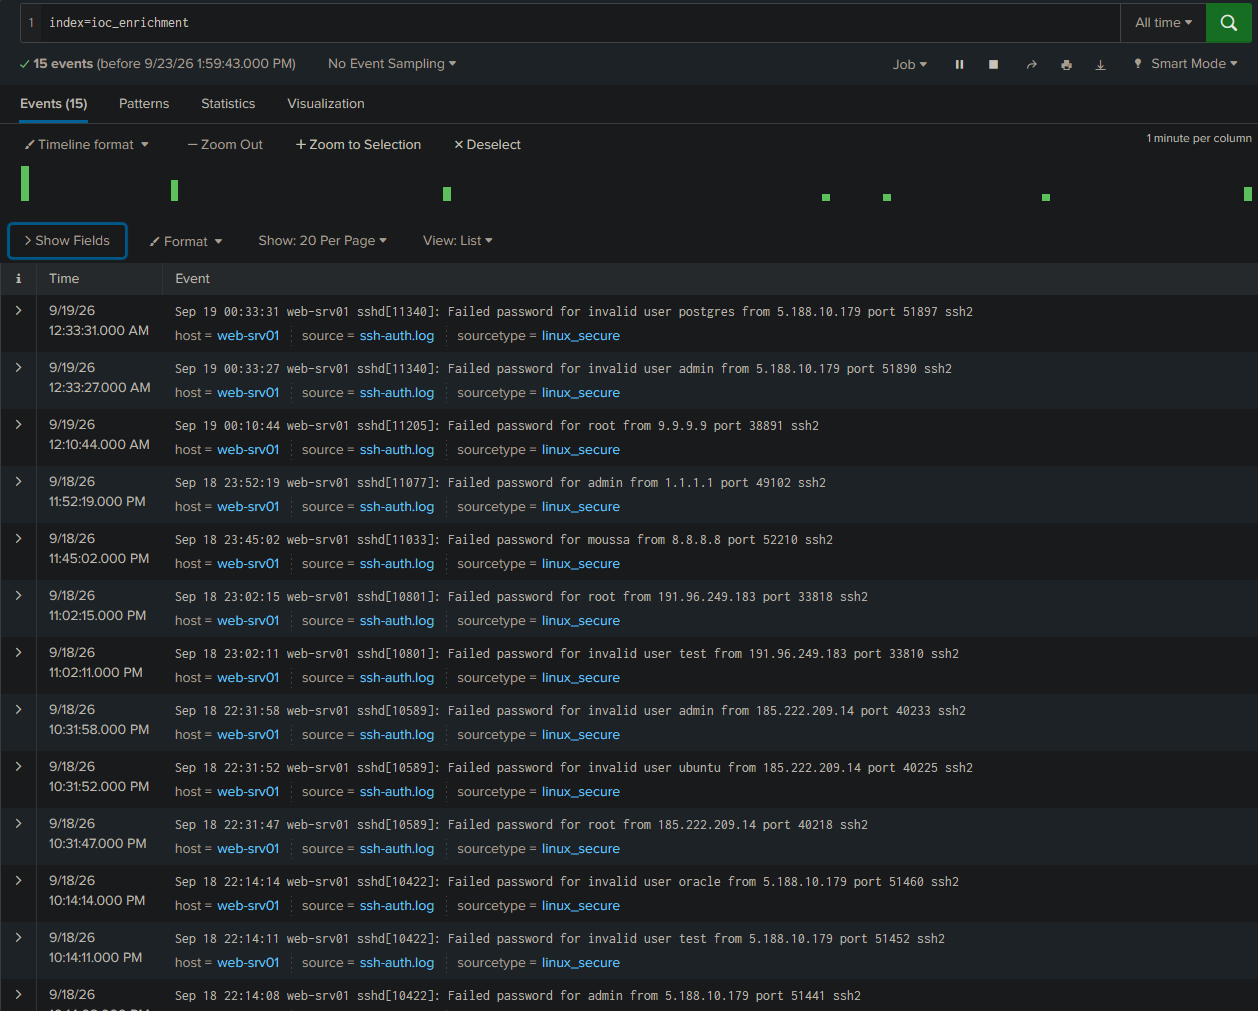
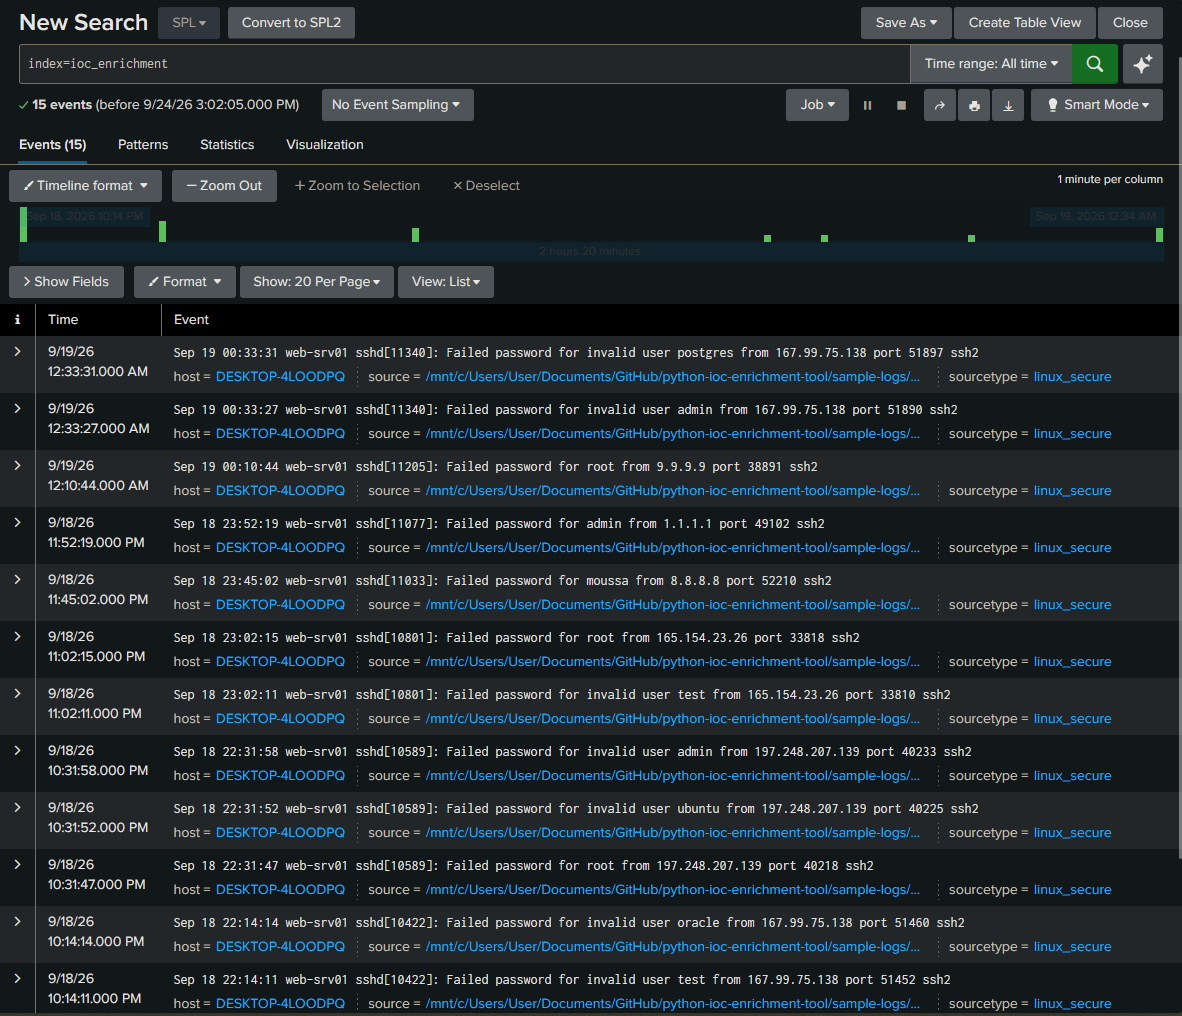
Update evidence with live-verified malicious IPs

diff --git a/scripts/enrich_iocs.py b/scripts/enrich_iocs.py
@@ -1,0 +1,76 @@
+import os
+import csv
+import time
+import requests
+from dotenv import load_dotenv
+
+# --- Config ---
+load_dotenv()
+API_KEY = os.getenv("ABUSEIPDB_API_KEY")
+INPUT_CSV = "evidence/iocs-raw-export.csv"
+OUTPUT_CSV = "evidence/iocs-enriched.csv"
+ABUSEIPDB_URL = "https://api.abuseipdb.com/api/v2/check"
+
+if not API_KEY:
+    raise SystemExit("ERROR: ABUSEIPDB_API_KEY not found. Check your .env file.")
+
+
+def load_iocs(path):
+    """Read the Splunk-exported CSV and return a list of dicts (src_ip, failed_attempts)."""
+    iocs = []
+    with open(path, newline="") as f:
+        reader = csv.DictReader(f)
+        for row in reader:
+            iocs.append(row)
+    return iocs
+
+
+def check_ip(ip):
+    """Query AbuseIPDB for a single IP and return the relevant fields as a dict."""
+    headers = {
+        "Accept": "application/json",
+        "Key": API_KEY
+    }
+    params = {
+        "ipAddress": ip,
+        "maxAgeInDays": 90
+    }
+
+    try:
+        response = requests.get(ABUSEIPDB_URL, headers=headers, params=params, timeout=10)
+        response.raise_for_status()
+        data = response.json()["data"]
+
+        return {
+            "src_ip": ip,
+            "abuse_score": data.get("abuseConfidenceScore"),
+            "country": data.get("countryCode"),
+            "isp": data.get("isp"),
+            "total_reports": data.get("totalReports"),
+            "domain": data.get("domain"),
+            "lookup_status": "success"
+        }
+
+    except requests.exceptions.RequestException as e:
+        print(f"  [!] Lookup failed for {ip}: {e}")
+        return {
+            "src_ip": ip,
+            "abuse_score": None,
+            "country": None,
+            "isp": None,
+            "total_reports": None,
+            "domain": None,
+            "lookup_status": "failed"
+        }
+
+
+if __name__ == "__main__":
+    iocs = load_iocs(INPUT_CSV)
+    print(f"Loaded {len(iocs)} unique IOCs from {INPUT_CSV}")
+
+    for ioc in iocs:
+        ip = ioc["src_ip"]
+        print(f"Checking {ip}...")
+        result = check_ip(ip)
+        print(f"  -> score={result['abuse_score']} country={result['country']} reports={result['total_reports']}")
+        time.sleep(1)
